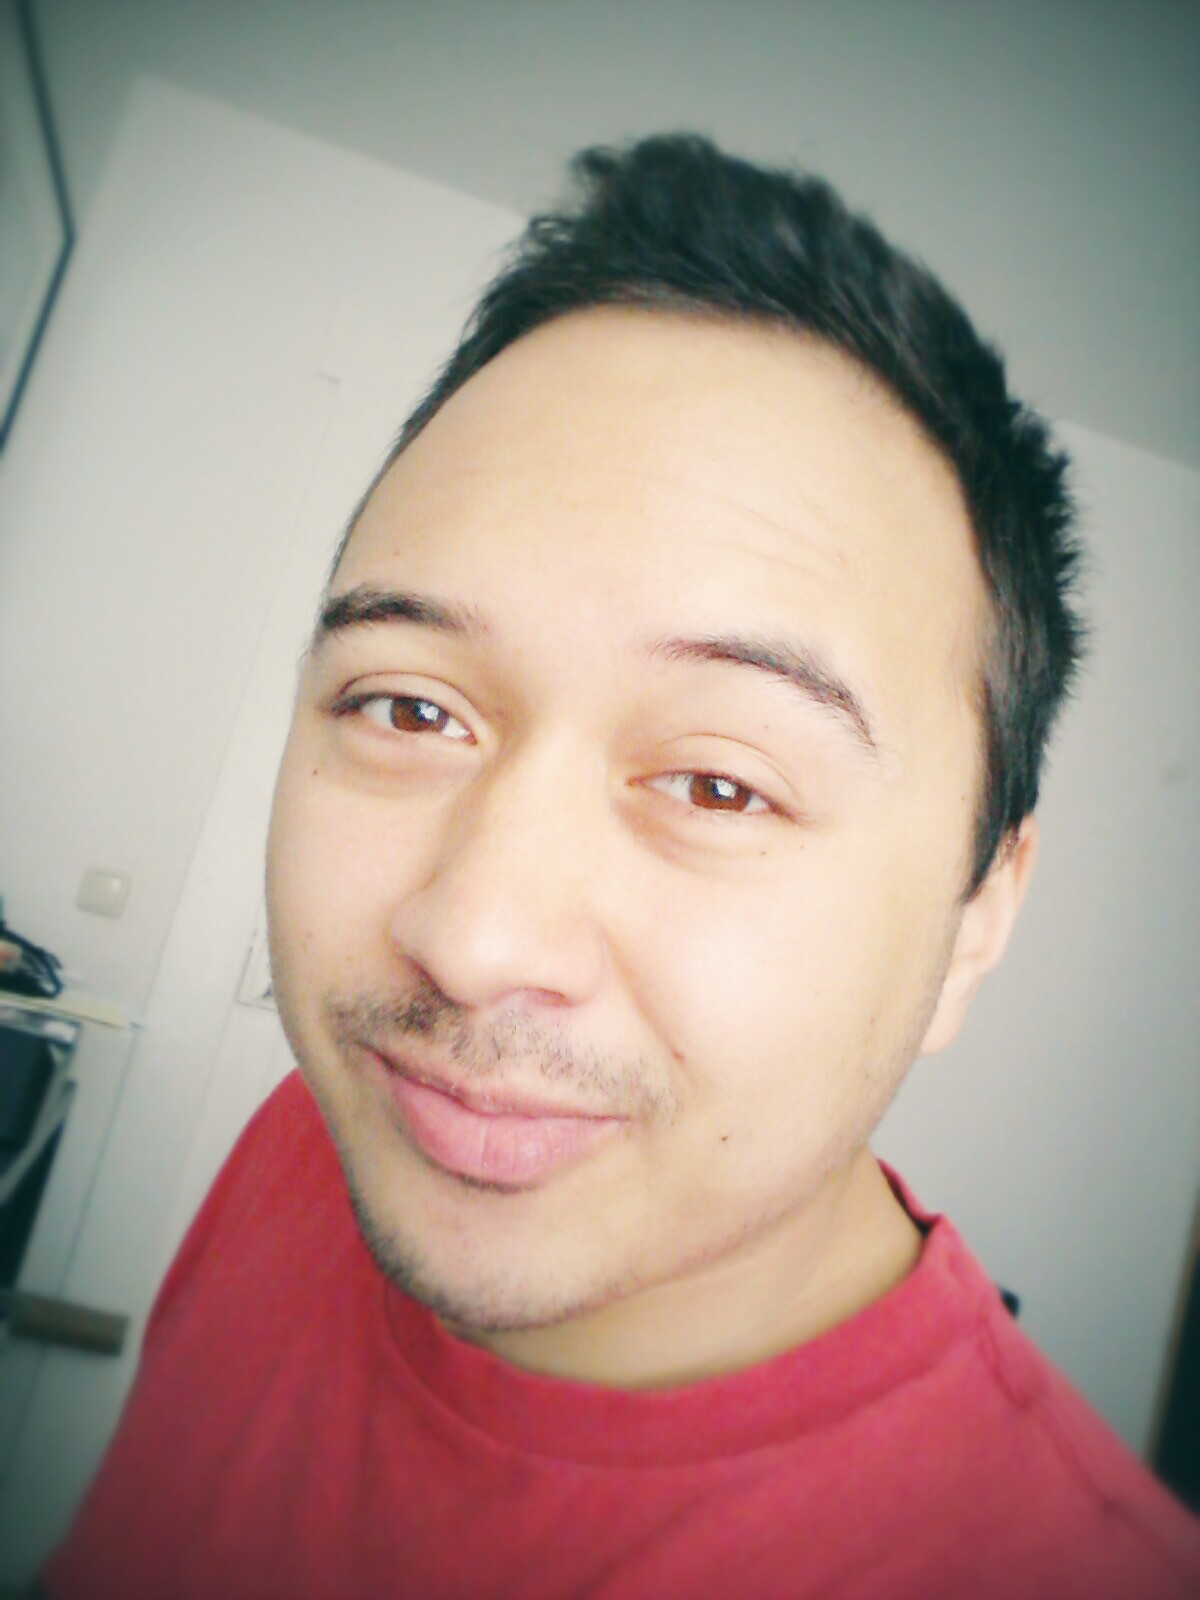
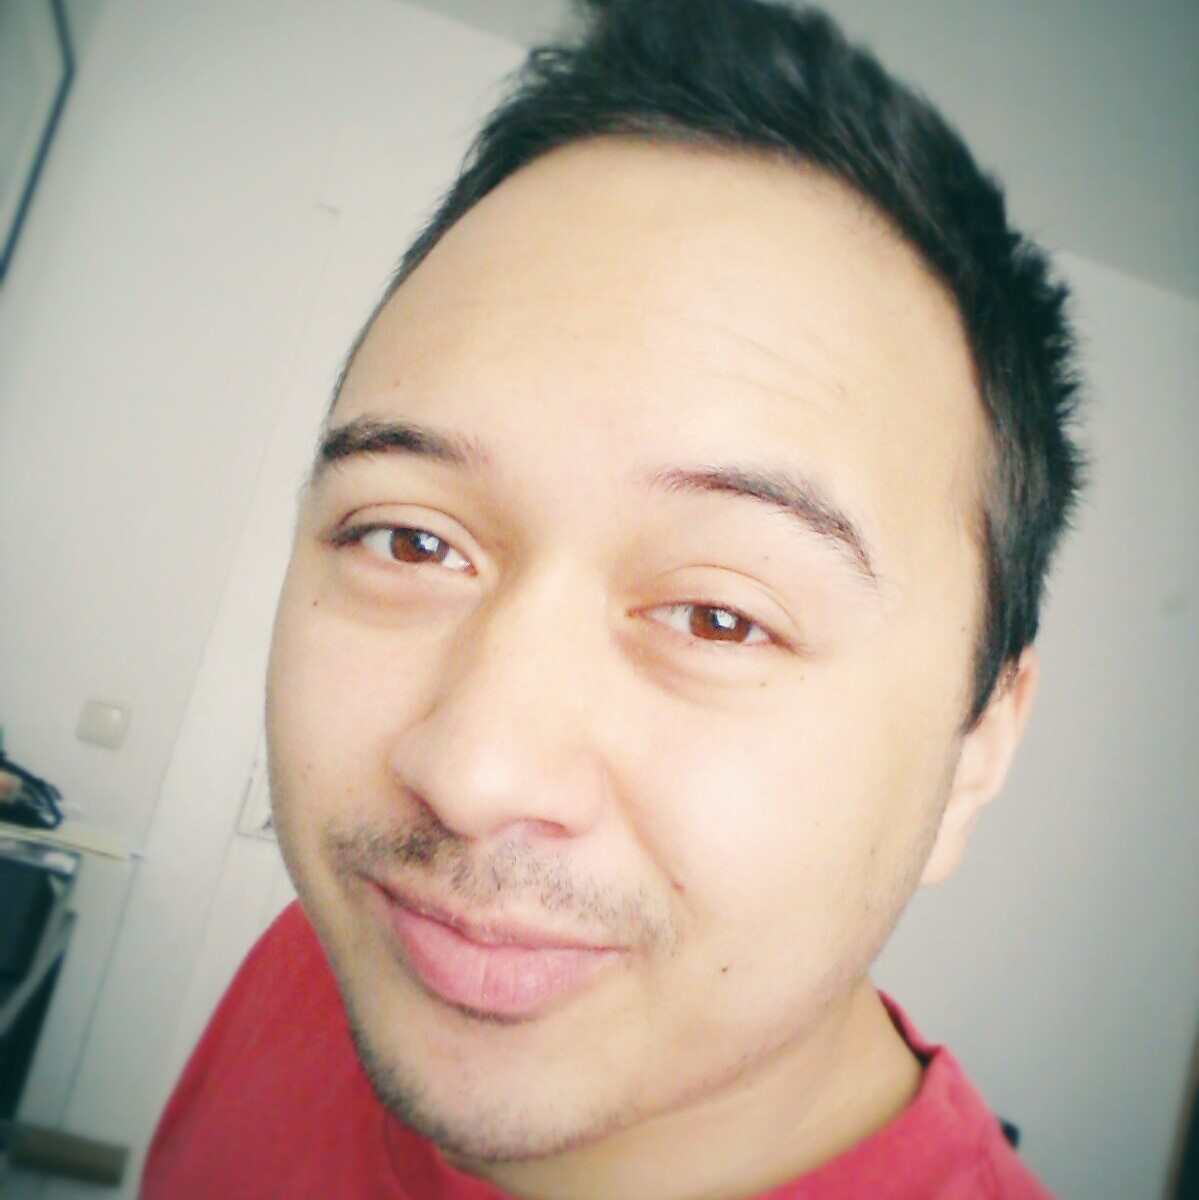
Added article images and smooth scroll buttons

diff --git a/src/index.html b/src/index.html
@@ -16,11 +16,11 @@
           <div class="w-1/5 h-4 bg-sky"></div>
         </div>
         <div class="w-full p-8 sticky top-0">
-          <img
-            class="w-48 mx-auto rounded-full border-dashed border-4 border-white"
-            src="./images/sp-rene.png"
-            alt=""
-          />
+          <div
+            class="w-48 h-48 mx-auto rounded-full border-dashed border-4 border-white overflow-hidden"
+          >
+            <img class="" src="./images/rene.jpg" alt="" />
+          </div>
           <h1 class="text-4xl text-center text-white mt-4">rene.weiser</h1>
           <h2 id="random-quote" class="text-xl text-center text-sky mb-4">
             bits of my internet life
@@ -53,7 +53,18 @@
       </aside>
       <main class="w-full">
         <div class="bg-gray-100">
-          <article class="md:max-w-screen-md mx-auto py-8">
+          <div
+            class="w-full h-screen relative text-center"
+            data-article-image="./images/code.png"
+          >
+            <a
+              href="#first-article"
+              class="ball bounce w-8 h-8 mb-8 bg-lime hover:bg-lime-lighter rounded-full focus:outline-none absolute bottom-0"
+            >
+              <span class="material-icons mt-1">arrow_downward</span>
+            </a>
+          </div>
+          <article id="first-article" class="md:max-w-screen-md mx-auto py-8">
             <h3 class="text-3xl">Article Title</h3>
             <p>
               Lorem ipsum dolor sit amet consectetur adipisicing elit.
@@ -73,6 +84,10 @@
           </article>
         </div>
         <div class="bg-gray-200">
+          <div
+            class="w-full h-screen"
+            data-article-image="./images/blank-colors-desk-electronics.jpg"
+          ></div>
           <article class="md:max-w-screen-md mx-auto py-8">
             <h3 class="text-3xl">Article Title</h3>
             <p>

diff --git a/src/index.js b/src/index.js
@@ -1,7 +1,12 @@
 import "./css/style.css";
-import "./images/sp-rene.png";
+import "material-icons";
 
 import Utils from "./js/utilities.js";
+
+// Handle image uploads
+const requireAll = (r) => r.keys().forEach(r);
+requireAll(require.context("./images", true, /\.(png|svg|jpg|gif)$/));
+requireAll(require.context("../content/images", true, /\.(png|svg|jpg|gif)$/));
 
 const quotes = [
   "Sharing some bits of my internet life",
@@ -12,3 +17,16 @@ const quotes = [
 
 const quoteContainer = document.querySelector("#random-quote");
 quoteContainer.innerText = quotes[Utils.getRandomInt(quotes.length)];
+
+const articleImages = document.querySelectorAll("[data-article-image]");
+for (let articleImage of articleImages) {
+  articleImage.style = `
+    background-image: url('./images/bg-tint.png'), url('${articleImage.getAttribute(
+      "data-article-image"
+    )}');
+    background-repeat: repeat, no-repeat;
+    background-position: top left, center center;
+    background-size: auto, cover;
+    background-attachment: fixed, fixed;
+  `;
+}

diff --git a/src/css/style.css b/src/css/style.css
@@ -2,6 +2,10 @@
 
 @tailwind components;
 
+html {
+  scroll-behavior: smooth;
+}
+
 .paragraph-link {
   @apply text-lime transition-colors duration-200;
 }
@@ -14,6 +18,40 @@
 }
 .btn:hover {
   @apply bg-lime text-clay;
+}
+
+.ball {
+  align-self: flex-end;
+  animation-duration: 2s;
+  animation-iteration-count: infinite;
+  transform-origin: bottom;
+}
+.bounce {
+  animation-name: bounce-keys;
+  animation-timing-function: cubic-bezier(0.28, 0.84, 0.42, 1);
+}
+@keyframes bounce-keys {
+  0% {
+    transform: scale(1, 1) translateY(0);
+  }
+  10% {
+    transform: scale(1.1, 0.9) translateY(0);
+  }
+  30% {
+    transform: scale(0.9, 1.1) translateY(-25px);
+  }
+  50% {
+    transform: scale(1.05, 0.95) translateY(0);
+  }
+  57% {
+    transform: scale(1, 1) translateY(-7px);
+  }
+  64% {
+    transform: scale(1, 1) translateY(0);
+  }
+  100% {
+    transform: scale(1, 1) translateY(0);
+  }
 }
 
 @tailwind utilities;
